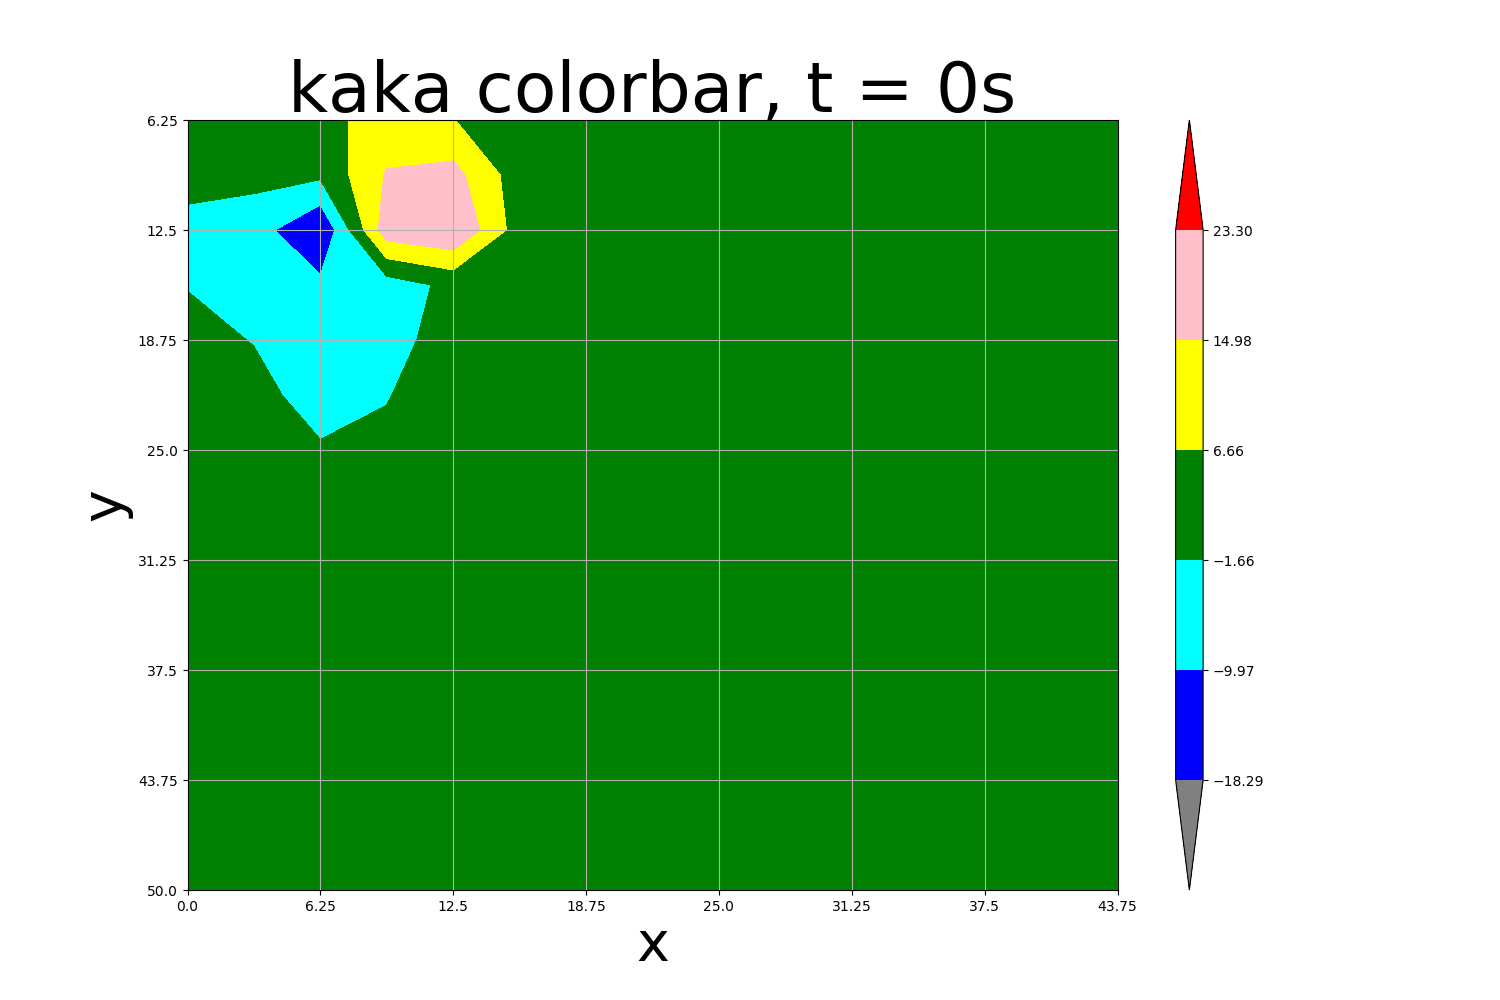
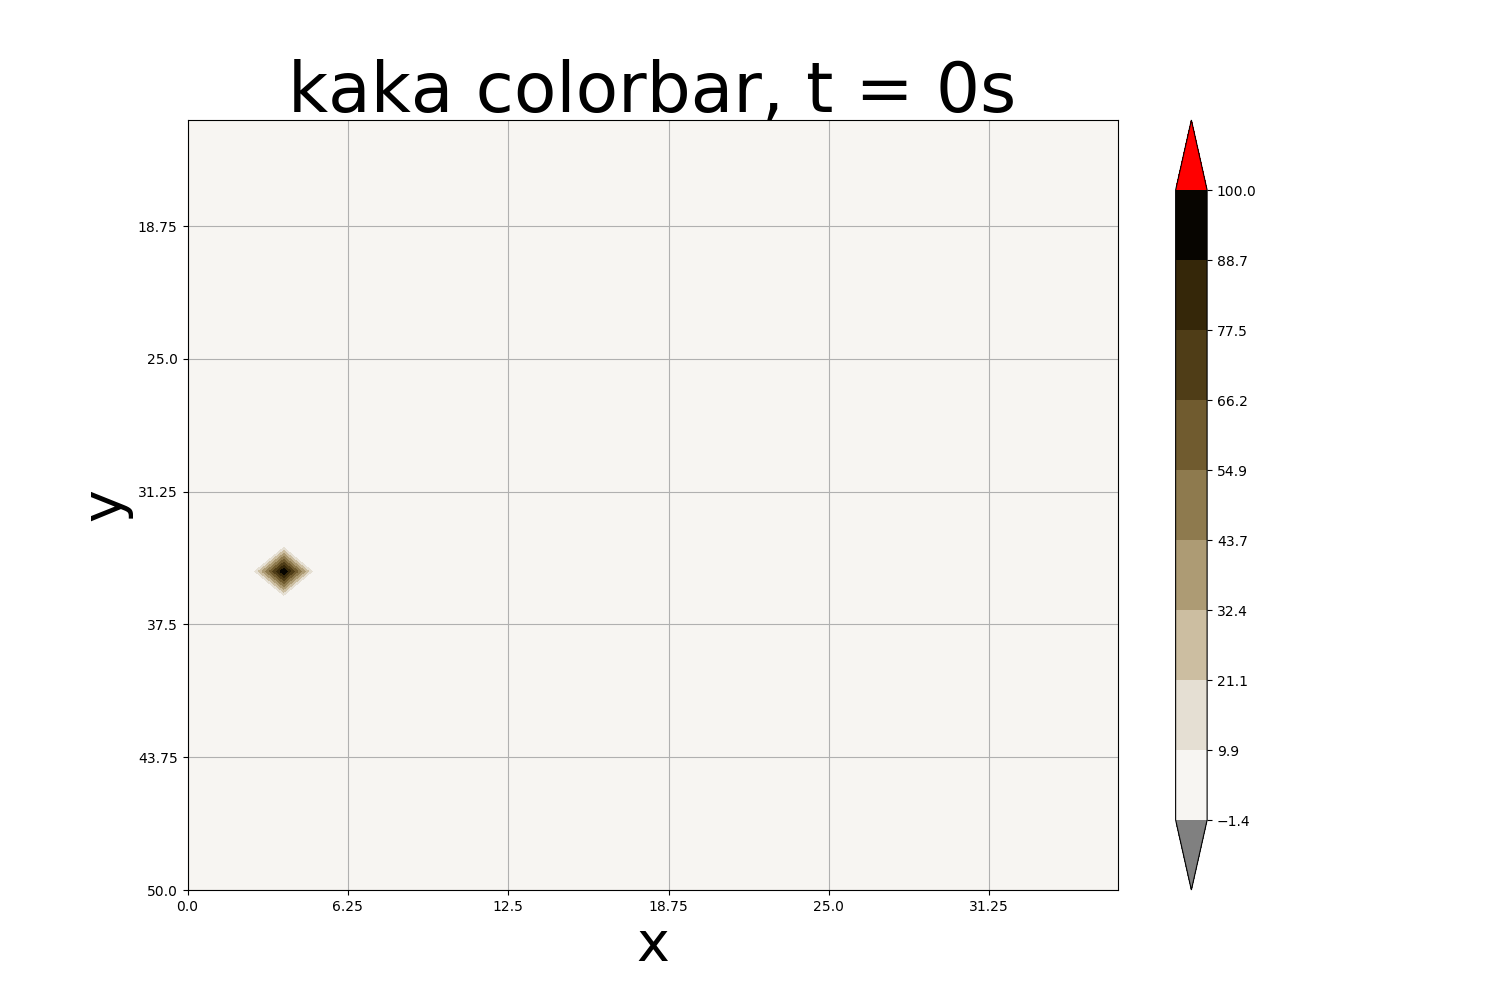
brown pictures

diff --git a/osamp/postprocess.py b/osamp/postprocess.py
@@ -98,7 +98,8 @@ def draw2DSlice(solution, t_slice, x_start, x_end, y_start, legend, solution_min
     ax.set_title(legend + ' colorbar, '  + 't = ' + str(t_slice)[:time_marker_length] + 's', fontsize = 50) 
     ax.grid(True)
     
-    cpool = ['blue','cyan','green','yellow','pink']
+    # cpool = ['blue','cyan','green','yellow','pink']
+    cpool = ['#f7f5f2','#e5dfd3','#ccbea1','#ad9b74','#8e7a4e', '#705b2f', '#4f3d17', '#352709', '#070500']
     cmap = mpl.colors.ListedColormap(cpool) # Задаём дискретную шкалу цветов из списка cpool
     cmap.set_over('red') # задаём цвет для значений, выходящих за рамки границы levels[-1] (сверху шкалы)
     cmap.set_under('grey') # задаём цвет для значений, выходящих за рамки границы levels[0] (снизу шкалы)
@@ -163,9 +164,23 @@ def draw2DMovie(solution, t_filming_step, x_start, x_end, y_start, legend, solut
         
     #Перевели шаг из "реального времени" в шаг по массиву решения.
     t_step = int(t_filming_step / t_grid_step)
- #Вызываем рисовалку срезов по времени в цикле.
+
+
+    #Если откомментили это, значит, вы готовы к тому, что малые значения сеточной функции отображаться не будут. 
+    #Закомментите инициализацию этих же переменных в цикле.
+    #Нормировка по цвету будет единой для всего фильма.
+    # absolute_solution_minimum = solution_min_value
+    # absolute_solution_maximum = solution_max_value
+
+   
+
+    #Вызываем рисовалку срезов по времени в цикле.
     for i in range(0, len(solution), t_step):
-        draw2DSlice(solution[i], i * t_grid_step, x_start, x_end, y_start, legend, np.min(np.min(solution[i])), np.max(np.max(solution[i])), 
+        #Если откомментили это, значит вы готовы к мигающему фону. Закомментите инициализацию этих же переменных прямо перед циклом
+        #Нормировка по цвету будет выполняться отдельно для каждого кадра
+        absolute_solution_minimum = np.min(np.min(solution[i]))
+        absolute_solution_maximum = np.max(np.max(solution[i]))
+        draw2DSlice(solution[i], i * t_grid_step, x_start, x_end, y_start, legend, absolute_solution_minimum, absolute_solution_maximum, 
                     time_marker_length)
     #Рисуем гифку из содержимого папки img\, сохраняем ее туда же.      
     images = []

diff --git a/osamp/problem.py b/osamp/problem.py
@@ -28,7 +28,7 @@ class Problem(object):
     border conditions
     """
 
-    GRID_SIZE = 15
+    GRID_SIZE = 30
 
     def __init__(self, params = None):
         if params is None:
@@ -46,7 +46,7 @@ class Problem(object):
         self._model = self._assemble_model()
         self._method = params['method']
         self._source = params['source']
-        self._buffering_step = int(params['buffering_step'])
+        self._buffering_step = float(params['buffering_step'])
         self._left_boundary_conditions = params['left_boundary_conditions']
         self._right_boundary_conditions = params['right_boundary_conditions']
         self.source = self._produce_source_of_waves()

diff --git a/osamp/solver.py b/osamp/solver.py
@@ -163,10 +163,10 @@ class Solver:
         grid = self._grid
         source_of_grid = self.source
         spatial_step = 1
-        self.time_step = 1
+        self.time_step = 20
         #for t in range(1, grid.shape[0]):
         ##get only pressure values : array[:, 0]
-        time = np.arange(0, 500, self.time_step)
+        time = np.arange(0, 400, self.time_step)
         result_of_iteration_grid = np.zeros((len(time), grid.shape[0], grid.shape[1], grid.shape[2]))
         #do iter
         for i in range(len(time)):
